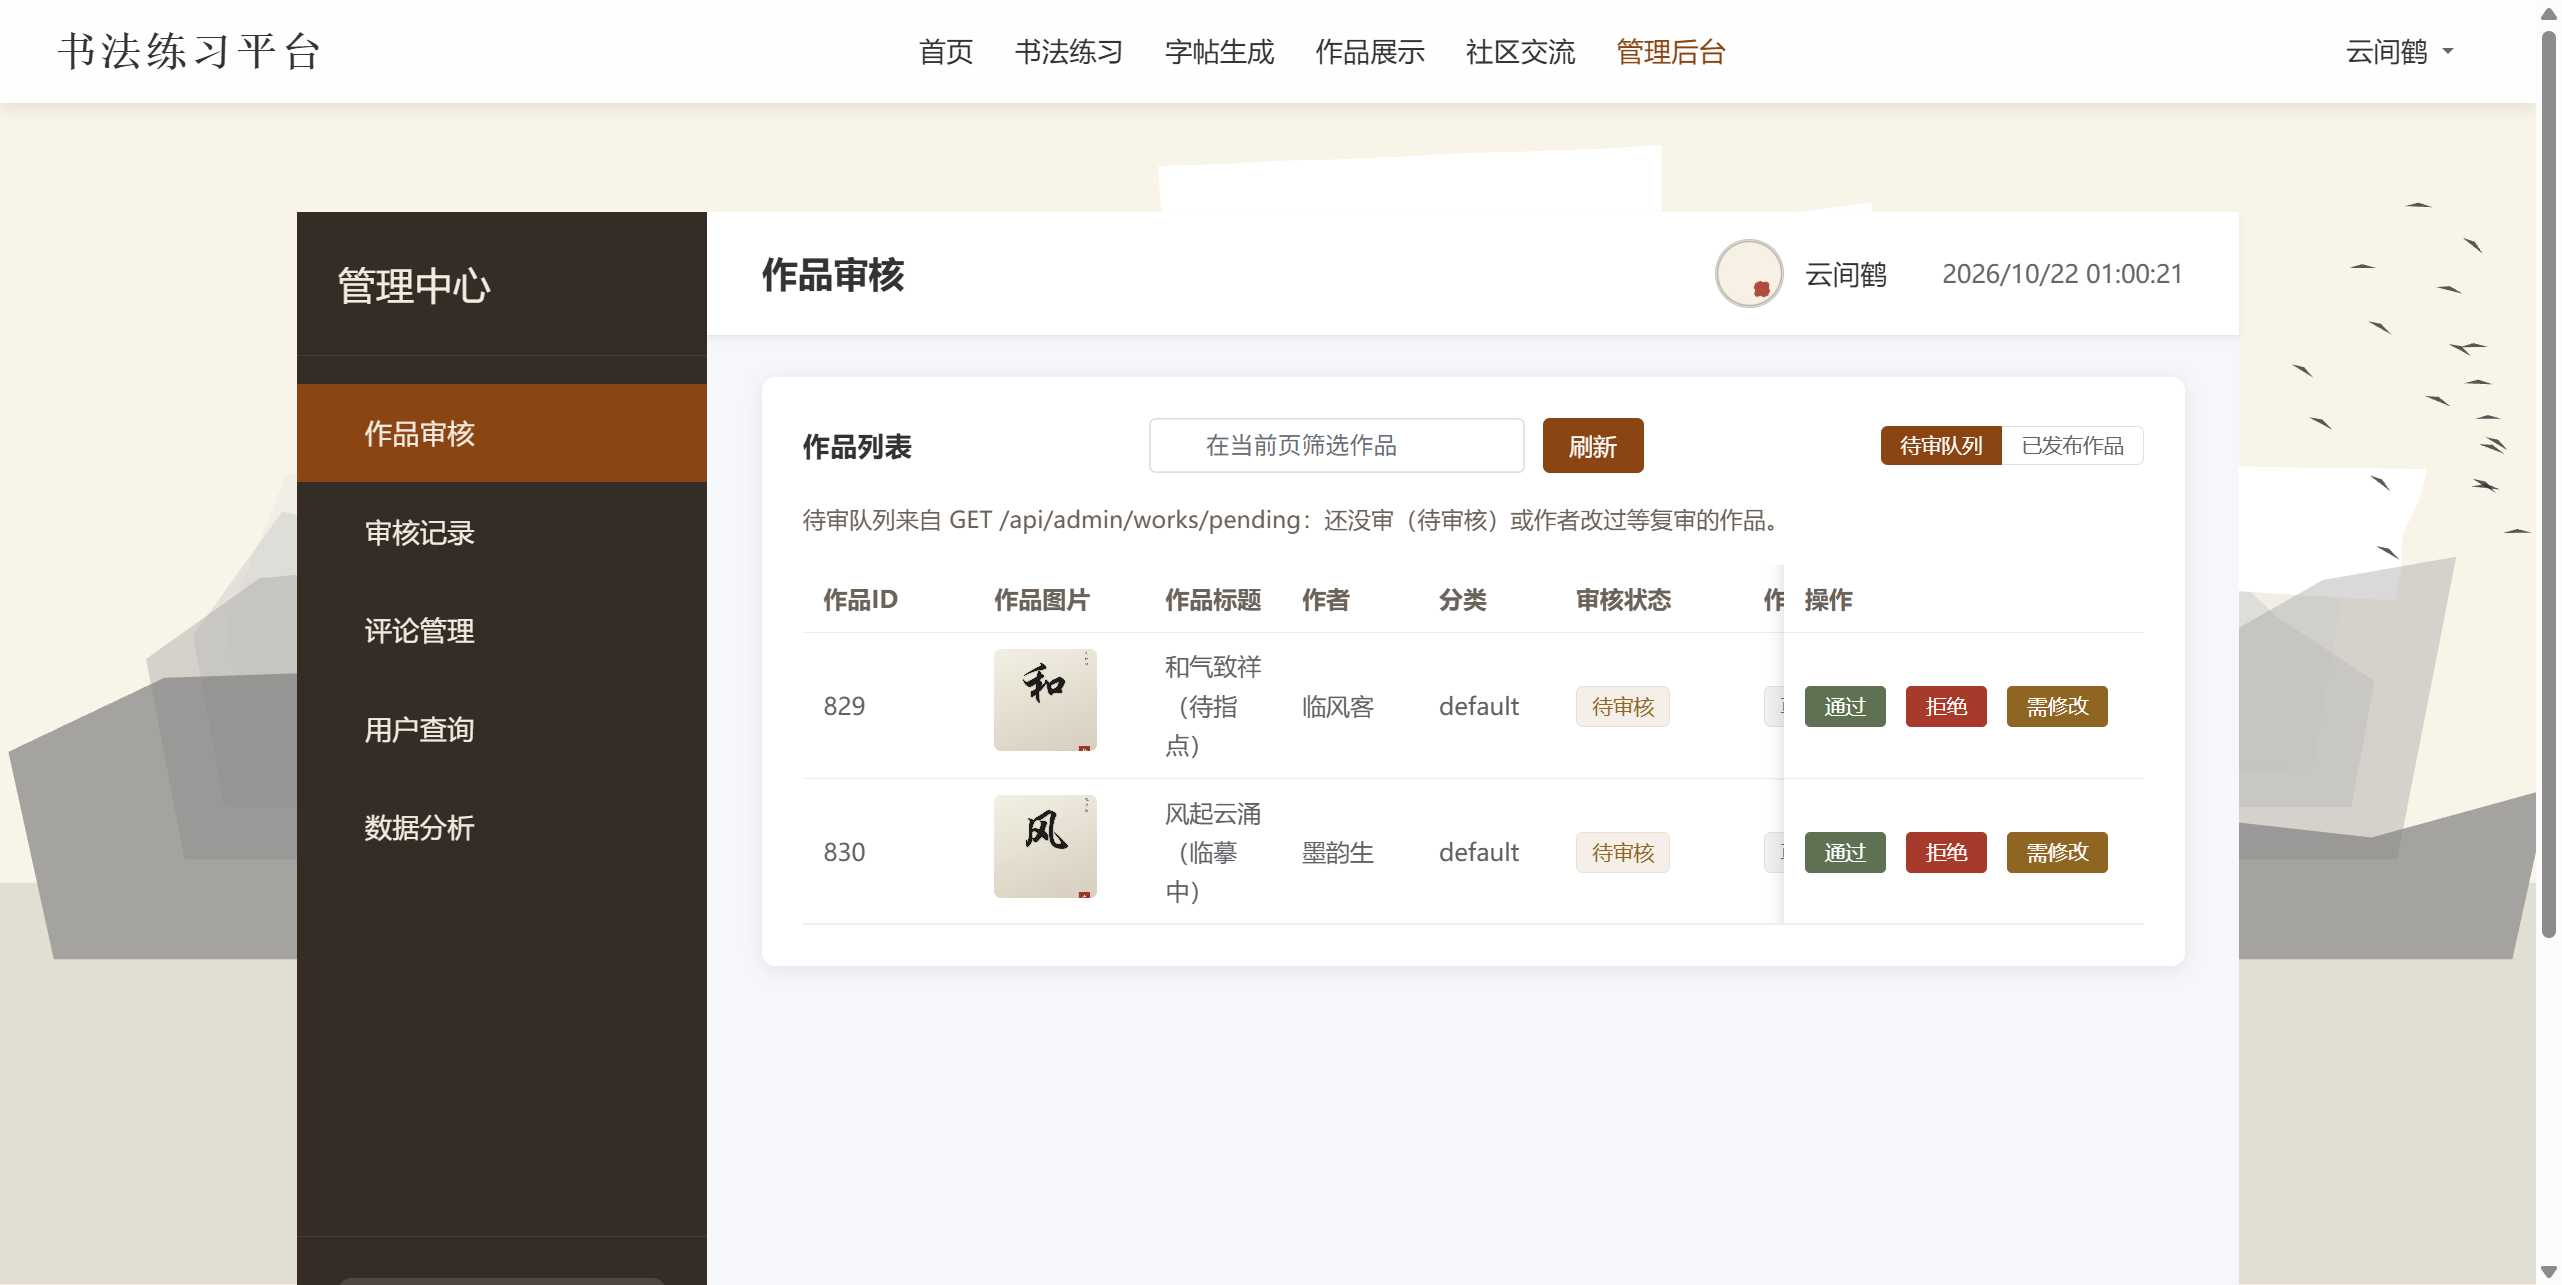
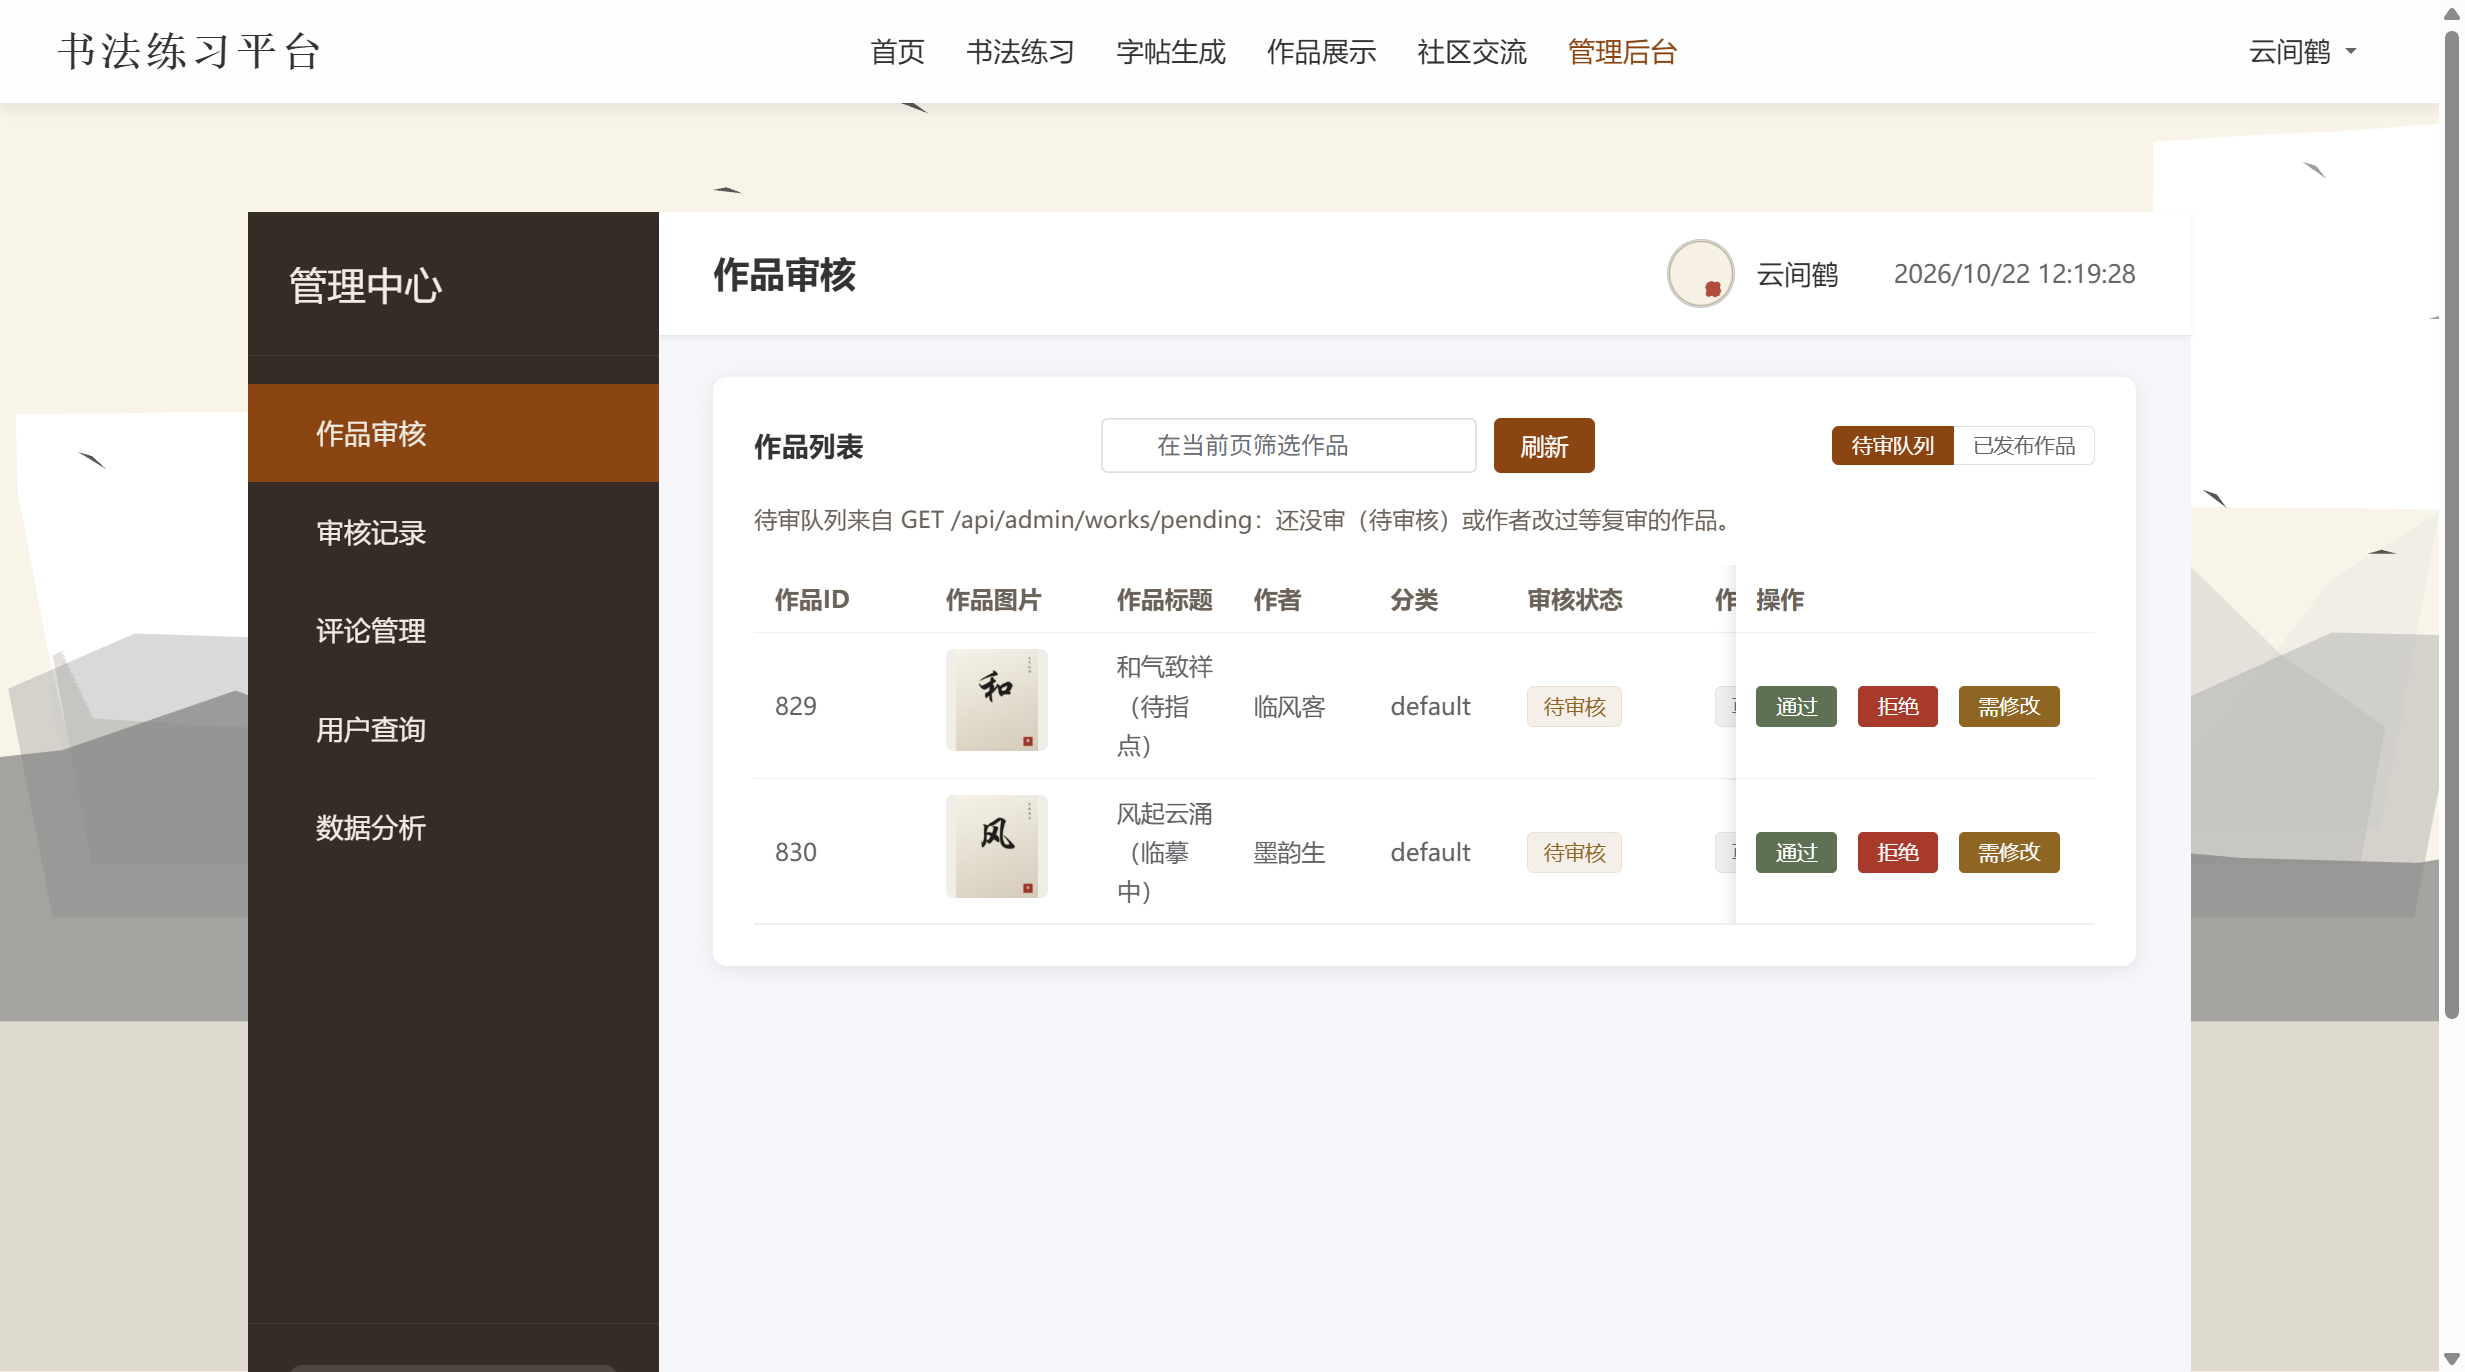
style: 作品图改用 contain 完整展示，不再裁掉半张字
画廊卡片原来用 object-fit: cover 把书法作品裁掉上下两截 —— 落款和印章
都看不见了。画廊不该替作者裁作品，改成 contain 完整展示，两侧留白用纸色
填，看起来像作品铺在衬纸上。

- GalleryView / HomeView / MyWorksView 的 .work-image 改 contain，
  容器加 #f0eee9 纸色底；画廊缩略图 200 → 240px，作品更有分量
- AdminView 表格里的 el-image 也改 fit="contain"，60px 缩略图同样不裁字
- 字帖封面保持 cover：那是装饰性封面，裁一点没关系（contain 反而成窄条）
- 顺带修一处会被上面改动带出来的对比度问题：画廊的点赞/评论浮层原来
  是「白字 + 阴影」，靠背后是图才看得清；contain 之后它会落到浅色衬纸上，
  于是给它自己的深色药丸底（rgba(38,30,24,.72)），去掉 text-shadow

回归：全站 11 个路由、493 个文字元素跑 WCAG 对比度审计，违规 0 项；
前端构建、eslint、契约检查 54/54/54 全部照旧通过。
README 的首页/画廊/后台三张截图同步重拍。

diff --git a/Practice-Platform/src/views/GalleryView.vue b/Practice-Platform/src/views/GalleryView.vue
@@ -639,15 +639,18 @@ onMounted(() => {
 }
 
 .work-thumbnail {
-  height: 200px;
+  height: 240px;
   position: relative;
   overflow: hidden;
+  /* 作品图用 contain 完整展示，不裁切 —— 画廊不该替作者裁掉半张字。
+     两边留白用纸色填，看起来像作品铺在衬纸上。 */
+  background-color: #f0eee9;
 }
 
 .work-image {
   width: 100%;
   height: 100%;
-  object-fit: cover;
+  object-fit: contain;
   transition: transform 0.3s;
 }
 
@@ -670,9 +673,13 @@ onMounted(() => {
   bottom: 10px;
   display: flex;
   gap: 0.8rem;
+  /* 作品图改成 contain 后，这个浮层会落到图片旁边的衬纸上，
+     白字压浅色纸看不清 —— 给它自己的深色底，别再指望背后是图。 */
+  padding: 3px 10px;
+  border-radius: 999px;
+  background-color: rgba(38, 30, 24, 0.72);
   color: #fff;
   font-size: 0.85rem;
-  text-shadow: 0 1px 3px rgba(0, 0, 0, 0.6);
 }
 
 .overlay-stat {

diff --git a/Practice-Platform/src/views/HomeView.vue b/Practice-Platform/src/views/HomeView.vue
@@ -463,14 +463,16 @@ onMounted(() => {
 }
 
 .work-thumbnail {
-  height: 180px;
+  height: 200px;
   overflow: hidden;
+  /* 作品图完整展示不裁切（contain），留白用纸色填 */
+  background-color: #f0eee9;
 }
 
 .work-image {
   width: 100%;
   height: 100%;
-  object-fit: cover;
+  object-fit: contain;
   transition: transform 0.3s;
 }
 
@@ -531,10 +533,14 @@ onMounted(() => {
 }
 
 .copybook-thumbnail {
-  height: 160px;
+  height: 180px;
   overflow: hidden;
+  background-color: #f0eee9;
 }
 
+/* 字帖封面用 cover（填满卡片），跟作品图相反：
+   封面是装饰性缩略图，裁一点没关系；
+   用户的作品图才必须 contain 完整展示，不能替作者裁掉半张字。 */
 .copybook-image {
   width: 100%;
   height: 100%;

diff --git a/Practice-Platform/src/views/AdminView.vue b/Practice-Platform/src/views/AdminView.vue
@@ -132,7 +132,7 @@
                   <el-image
                     v-if="scope.row.imageUrl"
                     :src="scope.row.imageUrl"
-                    fit="cover"
+                    fit="contain"
                     class="work-thumbnail-small"
                   >
                     <template #error>
@@ -1354,6 +1354,8 @@ onMounted(async () => {
   width: 60px;
   height: 60px;
   border-radius: 4px;
+  /* 缩略图也是 contain：留白比裁掉半个字好看 */
+  background-color: #f0eee9;
 }
 
 .image-fallback {

diff --git a/Practice-Platform/src/views/MyWorksView.vue b/Practice-Platform/src/views/MyWorksView.vue
@@ -528,12 +528,14 @@ onMounted(() => {
   position: relative;
   overflow: hidden;
   height: 300px;
+  /* 作品图完整展示不裁切（contain），留白用纸色填 */
+  background-color: #f0eee9;
 }
 
 .work-image {
   width: 100%;
   height: 100%;
-  object-fit: cover;
+  object-fit: contain;
   transition: transform 0.3s;
 }
 
